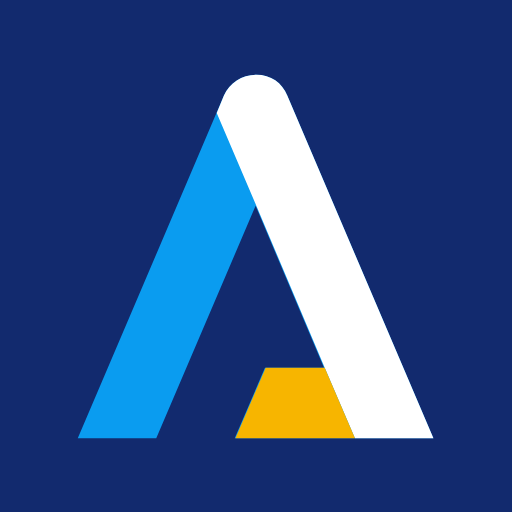
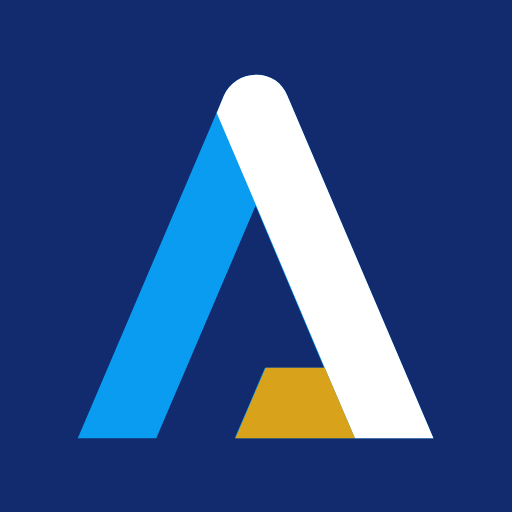
Mörkare guld och footerbadges med vit kontur
- Guldet mörkare (#d9a21b) i loggan, favicon/appikoner och på sidan
  (knappar, etiketter, detaljer)
- Di Gasell och Povel i footern utan vit bakgrund: vita versioner av
  logotyperna med vit kontur (Povel i en rund ram)

Claude-Session: https://claude.ai/code/session_01M2QgA1vvoGXkpNbR1JKdP8

Changed region(s): [[0.4688, 0.7188, 0.6875, 0.875]]

diff --git a/assets/css/main.css b/assets/css/main.css
@@ -23,7 +23,7 @@
   --blue: #149eda;
   --blue-700: #0b78aa;
   --blue-50: #e7f4fb;
-  --gold: #e8bd5a;
+  --gold: #d9a21b;
 
   /* Rundning – bara en aning */
   --r: 8px;
@@ -193,7 +193,7 @@ strong { font-weight: 650; }
 .btn .arr::after { content: ""; position: absolute; right: 0; top: -3px; width: 7px; height: 7px; border-top: 1px solid currentColor; border-right: 1px solid currentColor; transform: rotate(45deg); }
 .btn:hover .arr { width: 26px; }
 .btn--gold { --btn-bg: var(--gold); --btn-fg: var(--ink); --btn-bd: var(--gold); }
-.btn--gold:hover { --btn-bg: #f1cd78; --btn-bd: #f1cd78; --btn-fg: var(--ink); }
+.btn--gold:hover { --btn-bg: #e6b23a; --btn-bd: #e6b23a; --btn-fg: var(--ink); }
 .btn--light { --btn-bg: var(--white); --btn-fg: var(--ink); --btn-bd: var(--white); }
 .btn--light:hover { --btn-bg: var(--blue); --btn-bd: var(--blue); --btn-fg: var(--white); }
 .btn--ghost { --btn-bg: transparent; --btn-fg: currentColor; --btn-bd: var(--line-strong); }
@@ -661,8 +661,11 @@ a.cell:hover .cell__img img { transform: scale(1.04); }
 .footer-col a:hover { color: var(--white); }
 .footer-col address { font-style: normal; font-size: .95rem; line-height: 1.75; }
 .footer-badges { display: flex; align-items: center; gap: 24px; margin-top: 32px; }
-.footer-badges a { display: block; background: var(--white); padding: 10px 14px; border-radius: var(--r-sm); }
-.footer-badges img { height: 42px; width: auto; }
+.footer-badges a { display: flex; align-items: center; justify-content: center; height: 66px; padding: 0 18px; border: 1px solid rgba(255, 255, 255, .85); border-radius: var(--r-sm); transition: border-color .2s, background .2s; }
+.footer-badges a:hover { background: rgba(255, 255, 255, .06); border-color: var(--white); }
+.footer-badges img { height: 38px; width: auto; }
+.footer-badges__round { width: 66px; padding: 0 !important; border-radius: 50% !important; }
+.footer-badges__round img { height: 54px; }
 .footer-bottom { background: rgba(0, 0, 0, .14); }
 .footer-bottom .wrap { display: flex; flex-wrap: wrap; gap: 16px 32px; justify-content: space-between; align-items: center; padding-block: 22px; font-size: .84rem; color: rgba(255, 255, 255, .5); }
 .footer-bottom ul { display: flex; flex-wrap: wrap; gap: 24px; }

diff --git a/affarsomraden/entreprenad/index.html b/affarsomraden/entreprenad/index.html
@@ -242,8 +242,8 @@
         <div class="tagline">TILLSAMMANS</div>
         <p>Ett modernt byggbolag med starka traditioner. Skadereparationer, lokalanpassningar och entreprenad i Göteborgsregionen.</p>
         <div class="footer-badges">
-          <a href="https://www.di.se/amnen/di-gasell/" target="_blank" rel="noopener" aria-label="Di Gasell 2025"><img src="../../assets/logos/gasell-2025.png" alt="Di Gasell 2025" loading="lazy"></a>
-          <a href="../../om-oss/ledningssystem/" aria-label="Certifierade i Povel" style="padding:6px"><img src="../../assets/logos/povel.png" alt="Povel – processorienterad verksamhetsledning" style="height:54px" loading="lazy"></a>
+          <a href="https://www.di.se/amnen/di-gasell/" target="_blank" rel="noopener" aria-label="Di Gasell 2025"><img src="../../assets/logos/gasell-2025-white.png" alt="Di Gasell 2025" loading="lazy"></a>
+          <a class="footer-badges__round" href="../../om-oss/ledningssystem/" aria-label="Certifierade i Povel"><img src="../../assets/logos/povel-white.png" alt="Povel – processorienterad verksamhetsledning" loading="lazy"></a>
         </div>
       </div>
       <div class="footer-col">

diff --git a/affarsomraden/lokalanpassningar/index.html b/affarsomraden/lokalanpassningar/index.html
@@ -251,8 +251,8 @@
         <div class="tagline">TILLSAMMANS</div>
         <p>Ett modernt byggbolag med starka traditioner. Skadereparationer, lokalanpassningar och entreprenad i Göteborgsregionen.</p>
         <div class="footer-badges">
-          <a href="https://www.di.se/amnen/di-gasell/" target="_blank" rel="noopener" aria-label="Di Gasell 2025"><img src="../../assets/logos/gasell-2025.png" alt="Di Gasell 2025" loading="lazy"></a>
-          <a href="../../om-oss/ledningssystem/" aria-label="Certifierade i Povel" style="padding:6px"><img src="../../assets/logos/povel.png" alt="Povel – processorienterad verksamhetsledning" style="height:54px" loading="lazy"></a>
+          <a href="https://www.di.se/amnen/di-gasell/" target="_blank" rel="noopener" aria-label="Di Gasell 2025"><img src="../../assets/logos/gasell-2025-white.png" alt="Di Gasell 2025" loading="lazy"></a>
+          <a class="footer-badges__round" href="../../om-oss/ledningssystem/" aria-label="Certifierade i Povel"><img src="../../assets/logos/povel-white.png" alt="Povel – processorienterad verksamhetsledning" loading="lazy"></a>
         </div>
       </div>
       <div class="footer-col">

diff --git a/affarsomraden/skadereparationer/index.html b/affarsomraden/skadereparationer/index.html
@@ -252,8 +252,8 @@
         <div class="tagline">TILLSAMMANS</div>
         <p>Ett modernt byggbolag med starka traditioner. Skadereparationer, lokalanpassningar och entreprenad i Göteborgsregionen.</p>
         <div class="footer-badges">
-          <a href="https://www.di.se/amnen/di-gasell/" target="_blank" rel="noopener" aria-label="Di Gasell 2025"><img src="../../assets/logos/gasell-2025.png" alt="Di Gasell 2025" loading="lazy"></a>
-          <a href="../../om-oss/ledningssystem/" aria-label="Certifierade i Povel" style="padding:6px"><img src="../../assets/logos/povel.png" alt="Povel – processorienterad verksamhetsledning" style="height:54px" loading="lazy"></a>
+          <a href="https://www.di.se/amnen/di-gasell/" target="_blank" rel="noopener" aria-label="Di Gasell 2025"><img src="../../assets/logos/gasell-2025-white.png" alt="Di Gasell 2025" loading="lazy"></a>
+          <a class="footer-badges__round" href="../../om-oss/ledningssystem/" aria-label="Certifierade i Povel"><img src="../../assets/logos/povel-white.png" alt="Povel – processorienterad verksamhetsledning" loading="lazy"></a>
         </div>
       </div>
       <div class="footer-col">

diff --git a/affarsomraden/index.html b/affarsomraden/index.html
@@ -225,8 +225,8 @@
         <div class="tagline">TILLSAMMANS</div>
         <p>Ett modernt byggbolag med starka traditioner. Skadereparationer, lokalanpassningar och entreprenad i Göteborgsregionen.</p>
         <div class="footer-badges">
-          <a href="https://www.di.se/amnen/di-gasell/" target="_blank" rel="noopener" aria-label="Di Gasell 2025"><img src="../assets/logos/gasell-2025.png" alt="Di Gasell 2025" loading="lazy"></a>
-          <a href="../om-oss/ledningssystem/" aria-label="Certifierade i Povel" style="padding:6px"><img src="../assets/logos/povel.png" alt="Povel – processorienterad verksamhetsledning" style="height:54px" loading="lazy"></a>
+          <a href="https://www.di.se/amnen/di-gasell/" target="_blank" rel="noopener" aria-label="Di Gasell 2025"><img src="../assets/logos/gasell-2025-white.png" alt="Di Gasell 2025" loading="lazy"></a>
+          <a class="footer-badges__round" href="../om-oss/ledningssystem/" aria-label="Certifierade i Povel"><img src="../assets/logos/povel-white.png" alt="Povel – processorienterad verksamhetsledning" loading="lazy"></a>
         </div>
       </div>
       <div class="footer-col">

diff --git a/anmal-skada/index.html b/anmal-skada/index.html
@@ -198,8 +198,8 @@
         <div class="tagline">TILLSAMMANS</div>
         <p>Ett modernt byggbolag med starka traditioner. Skadereparationer, lokalanpassningar och entreprenad i Göteborgsregionen.</p>
         <div class="footer-badges">
-          <a href="https://www.di.se/amnen/di-gasell/" target="_blank" rel="noopener" aria-label="Di Gasell 2025"><img src="../assets/logos/gasell-2025.png" alt="Di Gasell 2025" loading="lazy"></a>
-          <a href="../om-oss/ledningssystem/" aria-label="Certifierade i Povel" style="padding:6px"><img src="../assets/logos/povel.png" alt="Povel – processorienterad verksamhetsledning" style="height:54px" loading="lazy"></a>
+          <a href="https://www.di.se/amnen/di-gasell/" target="_blank" rel="noopener" aria-label="Di Gasell 2025"><img src="../assets/logos/gasell-2025-white.png" alt="Di Gasell 2025" loading="lazy"></a>
+          <a class="footer-badges__round" href="../om-oss/ledningssystem/" aria-label="Certifierade i Povel"><img src="../assets/logos/povel-white.png" alt="Povel – processorienterad verksamhetsledning" loading="lazy"></a>
         </div>
       </div>
       <div class="footer-col">

diff --git a/integritetspolicy/index.html b/integritetspolicy/index.html
@@ -168,8 +168,8 @@
         <div class="tagline">TILLSAMMANS</div>
         <p>Ett modernt byggbolag med starka traditioner. Skadereparationer, lokalanpassningar och entreprenad i Göteborgsregionen.</p>
         <div class="footer-badges">
-          <a href="https://www.di.se/amnen/di-gasell/" target="_blank" rel="noopener" aria-label="Di Gasell 2025"><img src="../assets/logos/gasell-2025.png" alt="Di Gasell 2025" loading="lazy"></a>
-          <a href="../om-oss/ledningssystem/" aria-label="Certifierade i Povel" style="padding:6px"><img src="../assets/logos/povel.png" alt="Povel – processorienterad verksamhetsledning" style="height:54px" loading="lazy"></a>
+          <a href="https://www.di.se/amnen/di-gasell/" target="_blank" rel="noopener" aria-label="Di Gasell 2025"><img src="../assets/logos/gasell-2025-white.png" alt="Di Gasell 2025" loading="lazy"></a>
+          <a class="footer-badges__round" href="../om-oss/ledningssystem/" aria-label="Certifierade i Povel"><img src="../assets/logos/povel-white.png" alt="Povel – processorienterad verksamhetsledning" loading="lazy"></a>
         </div>
       </div>
       <div class="footer-col">

diff --git a/karriar/index.html b/karriar/index.html
@@ -202,8 +202,8 @@
         <div class="tagline">TILLSAMMANS</div>
         <p>Ett modernt byggbolag med starka traditioner. Skadereparationer, lokalanpassningar och entreprenad i Göteborgsregionen.</p>
         <div class="footer-badges">
-          <a href="https://www.di.se/amnen/di-gasell/" target="_blank" rel="noopener" aria-label="Di Gasell 2025"><img src="../assets/logos/gasell-2025.png" alt="Di Gasell 2025" loading="lazy"></a>
-          <a href="../om-oss/ledningssystem/" aria-label="Certifierade i Povel" style="padding:6px"><img src="../assets/logos/povel.png" alt="Povel – processorienterad verksamhetsledning" style="height:54px" loading="lazy"></a>
+          <a href="https://www.di.se/amnen/di-gasell/" target="_blank" rel="noopener" aria-label="Di Gasell 2025"><img src="../assets/logos/gasell-2025-white.png" alt="Di Gasell 2025" loading="lazy"></a>
+          <a class="footer-badges__round" href="../om-oss/ledningssystem/" aria-label="Certifierade i Povel"><img src="../assets/logos/povel-white.png" alt="Povel – processorienterad verksamhetsledning" loading="lazy"></a>
         </div>
       </div>
       <div class="footer-col">

diff --git a/klienter/index.html b/klienter/index.html
@@ -250,8 +250,8 @@
         <div class="tagline">TILLSAMMANS</div>
         <p>Ett modernt byggbolag med starka traditioner. Skadereparationer, lokalanpassningar och entreprenad i Göteborgsregionen.</p>
         <div class="footer-badges">
-          <a href="https://www.di.se/amnen/di-gasell/" target="_blank" rel="noopener" aria-label="Di Gasell 2025"><img src="../assets/logos/gasell-2025.png" alt="Di Gasell 2025" loading="lazy"></a>
-          <a href="../om-oss/ledningssystem/" aria-label="Certifierade i Povel" style="padding:6px"><img src="../assets/logos/povel.png" alt="Povel – processorienterad verksamhetsledning" style="height:54px" loading="lazy"></a>
+          <a href="https://www.di.se/amnen/di-gasell/" target="_blank" rel="noopener" aria-label="Di Gasell 2025"><img src="../assets/logos/gasell-2025-white.png" alt="Di Gasell 2025" loading="lazy"></a>
+          <a class="footer-badges__round" href="../om-oss/ledningssystem/" aria-label="Certifierade i Povel"><img src="../assets/logos/povel-white.png" alt="Povel – processorienterad verksamhetsledning" loading="lazy"></a>
         </div>
       </div>
       <div class="footer-col">

diff --git a/kontakt/index.html b/kontakt/index.html
@@ -224,8 +224,8 @@
         <div class="tagline">TILLSAMMANS</div>
         <p>Ett modernt byggbolag med starka traditioner. Skadereparationer, lokalanpassningar och entreprenad i Göteborgsregionen.</p>
         <div class="footer-badges">
-          <a href="https://www.di.se/amnen/di-gasell/" target="_blank" rel="noopener" aria-label="Di Gasell 2025"><img src="../assets/logos/gasell-2025.png" alt="Di Gasell 2025" loading="lazy"></a>
-          <a href="../om-oss/ledningssystem/" aria-label="Certifierade i Povel" style="padding:6px"><img src="../assets/logos/povel.png" alt="Povel – processorienterad verksamhetsledning" style="height:54px" loading="lazy"></a>
+          <a href="https://www.di.se/amnen/di-gasell/" target="_blank" rel="noopener" aria-label="Di Gasell 2025"><img src="../assets/logos/gasell-2025-white.png" alt="Di Gasell 2025" loading="lazy"></a>
+          <a class="footer-badges__round" href="../om-oss/ledningssystem/" aria-label="Certifierade i Povel"><img src="../assets/logos/povel-white.png" alt="Povel – processorienterad verksamhetsledning" loading="lazy"></a>
         </div>
       </div>
       <div class="footer-col">

diff --git a/partners/index.html b/partners/index.html
@@ -211,8 +211,8 @@
         <div class="tagline">TILLSAMMANS</div>
         <p>Ett modernt byggbolag med starka traditioner. Skadereparationer, lokalanpassningar och entreprenad i Göteborgsregionen.</p>
         <div class="footer-badges">
-          <a href="https://www.di.se/amnen/di-gasell/" target="_blank" rel="noopener" aria-label="Di Gasell 2025"><img src="../assets/logos/gasell-2025.png" alt="Di Gasell 2025" loading="lazy"></a>
-          <a href="../om-oss/ledningssystem/" aria-label="Certifierade i Povel" style="padding:6px"><img src="../assets/logos/povel.png" alt="Povel – processorienterad verksamhetsledning" style="height:54px" loading="lazy"></a>
+          <a href="https://www.di.se/amnen/di-gasell/" target="_blank" rel="noopener" aria-label="Di Gasell 2025"><img src="../assets/logos/gasell-2025-white.png" alt="Di Gasell 2025" loading="lazy"></a>
+          <a class="footer-badges__round" href="../om-oss/ledningssystem/" aria-label="Certifierade i Povel"><img src="../assets/logos/povel-white.png" alt="Povel – processorienterad verksamhetsledning" loading="lazy"></a>
         </div>
       </div>
       <div class="footer-col">

diff --git a/404.html b/404.html
@@ -136,8 +136,8 @@
         <div class="tagline">TILLSAMMANS</div>
         <p>Ett modernt byggbolag med starka traditioner. Skadereparationer, lokalanpassningar och entreprenad i Göteborgsregionen.</p>
         <div class="footer-badges">
-          <a href="https://www.di.se/amnen/di-gasell/" target="_blank" rel="noopener" aria-label="Di Gasell 2025"><img src="/assets/logos/gasell-2025.png" alt="Di Gasell 2025" loading="lazy"></a>
-          <a href="/om-oss/ledningssystem/" aria-label="Certifierade i Povel" style="padding:6px"><img src="/assets/logos/povel.png" alt="Povel – processorienterad verksamhetsledning" style="height:54px" loading="lazy"></a>
+          <a href="https://www.di.se/amnen/di-gasell/" target="_blank" rel="noopener" aria-label="Di Gasell 2025"><img src="/assets/logos/gasell-2025-white.png" alt="Di Gasell 2025" loading="lazy"></a>
+          <a class="footer-badges__round" href="/om-oss/ledningssystem/" aria-label="Certifierade i Povel"><img src="/assets/logos/povel-white.png" alt="Povel – processorienterad verksamhetsledning" loading="lazy"></a>
         </div>
       </div>
       <div class="footer-col">
